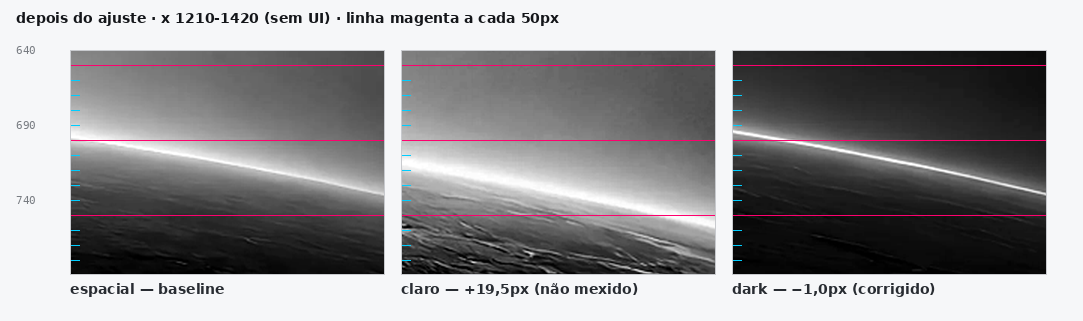
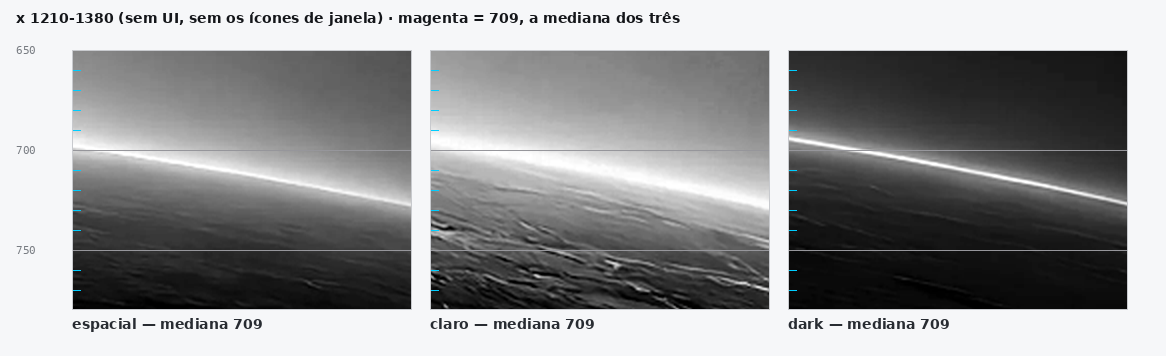
fix(fundos): alinha o horizonte do claro — os 3 temas convergem
HORIZONTE['claro'] vai de 0.732 para 0.752, e ALTURA['claro'] de 0.96 para
0.95 porque o novo valor estoura o limite ALTURA <= (1 - HORIZONTE)/(1 - ALVO)
= 0,9538, mesmo caso do dark. Regenerado so bg-claro.webp — espacial e dark
ficaram byte a byte iguais, conferido por md5.

Protocolo de validacao, com o refinamento de excluir x>=1381 (os icones de
janela contaminavam a leitura): pico de brilho por coluna em x 1210-1380, de 5
em 5px, mediana.

  tema      HORIZONTE        mediana   min-max
  espacial  0.742            709,0     693-726
  claro     0.732 -> 0.752   709,0     694-727
  dark      0.719 -> 0.752   709,0     694-726

Os tres na mesma mediana, e as faixas min-max quase coincidindo — nao e so o
ponto medido que bateu, e a curva inteira do arco. Antes dos ajustes o claro
estava +19,5px e o dark +32,0px em relacao ao espacial.

Com isso os 3 backgrounds ficam alinhados e a Fase 2 fecha do lado dos fundos.

Claude-Session: https://claude.ai/code/session_01LbjYsktAA9FimfS1GsYBDA

diff --git a/solis-repo/solis-repo/design/preparar-fundos.py b/solis-repo/solis-repo/design/preparar-fundos.py
@@ -48,7 +48,7 @@ FONTES = {
 #   0,01 sobe o horizonte ~9,7px na janela de 930. AUMENTAR sobe.
 HORIZONTE = {
     'espacial': 0.742,   # baseline
-    'claro':    0.732,   # medido 19,5px ABAIXO do espacial — ver nota no fim do arquivo
+    'claro':    0.752,   # era 0.732; +0.020 pra subir os ~20px que estava abaixo
     'dark':     0.752,   # era 0.719; +0.033 pra subir os 32px que estava abaixo
 }
 ALVO   = 0.740      # onde o horizonte fica no arquivo final, igual pros três
@@ -57,7 +57,7 @@ ALVO   = 0.740      # onde o horizonte fica no arquivo final, igual pros três
 # ALTURA <= (1 - HORIZONTE) / (1 - ALVO). Com o dark em 0,752 o teto é 0,9538,
 # então 0,96 estourava o arquivo. Só o dark mudou; espacial e claro seguem em
 # 0,96 pra que os arquivos deles não sejam tocados.
-ALTURA = {'espacial': 0.96, 'claro': 0.96, 'dark': 0.95}
+ALTURA = {'espacial': 0.96, 'claro': 0.95, 'dark': 0.95}
 ASPECTO = 1.6       # 16:10, comum aos três
 SAIDA = (2880, 1800)
 

diff --git a/solis-repo/solis-repo/docs/MEDICOES_FASE2.md b/solis-repo/solis-repo/docs/MEDICOES_FASE2.md
@@ -211,15 +211,20 @@ Medido no render (1440×930, animação de 90s congelada) pela linha mais brilha
 na faixa **x 1210–1420** — a única larga o bastante e livre de composer e chips. O desvio se
 mantém estável entre colunas, o que confirma offset real e não ruído de detecção.
 
-| tema | x1240 | x1300 | x1360 | x1410 | vs espacial |
-|---|---|---|---|---|---|
-| espacial | 701 | 711 | 723 | 733 | baseline |
-| claro | 719 | 730 | 743 | 754 | **+19,5px** |
-| dark (antes) | 731 | 743 | 755 | 767 | +32,0px |
-| dark (depois) | 699 | 710 | 722 | 733 | **−1,0px** |
+Protocolo final: pico de brilho por coluna em **x 1210–1380**, de 5 em 5px, mediana. A faixa
+exclui x≥1381 porque ali entram os ícones de janela (minimizar/maximizar/fechar), que
+contaminam a leitura.
 
-O `dark` foi de `HORIZONTE` 0,719 → **0,752**. O `claro` continua 19,5px abaixo do espacial e
-**não foi mexido** — decisão pendente.
+| tema | `HORIZONTE` | mediana | min–max | vs espacial |
+|---|---|---|---|---|
+| espacial | 0,742 | **709,0** | 693–726 | baseline |
+| claro | 0,732 → **0,752** | **709,0** | 694–727 | **0,0px** |
+| dark | 0,719 → **0,752** | **709,0** | 694–726 | **0,0px** |
+
+Os três convergiram para a mesma mediana, e as faixas min–max quase coincidem — o que mostra
+que não é só o ponto medido que bateu, é a curva inteira do arco.
+
+Antes dos ajustes: claro +19,5px e dark +32,0px em relação ao espacial.
 
 Protocolos que **não** funcionam nestas imagens, todos testados: pico de brilho na coluna
 central x=720 (no espacial acha o clarão do céu, não o horizonte, e a coluna atravessa o
